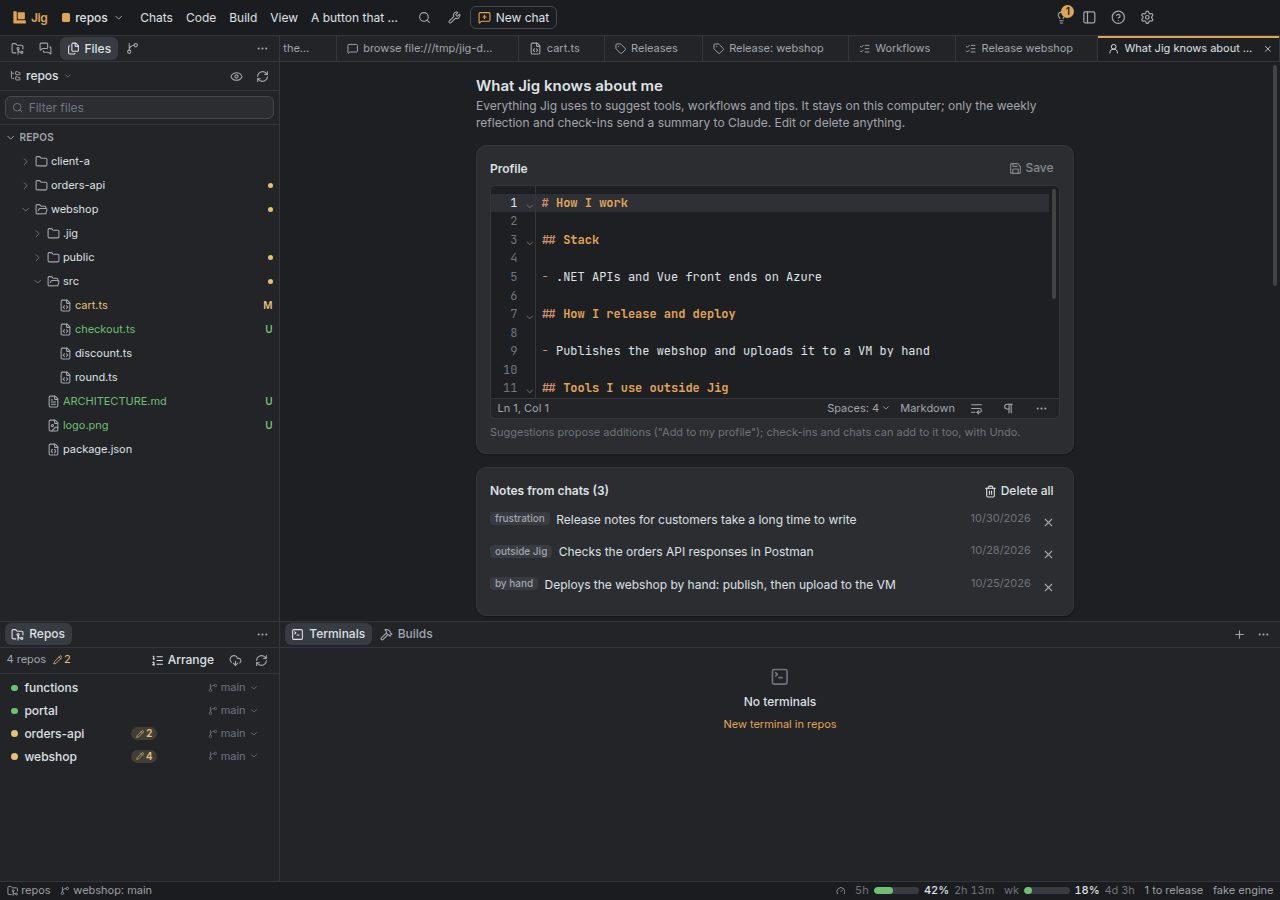
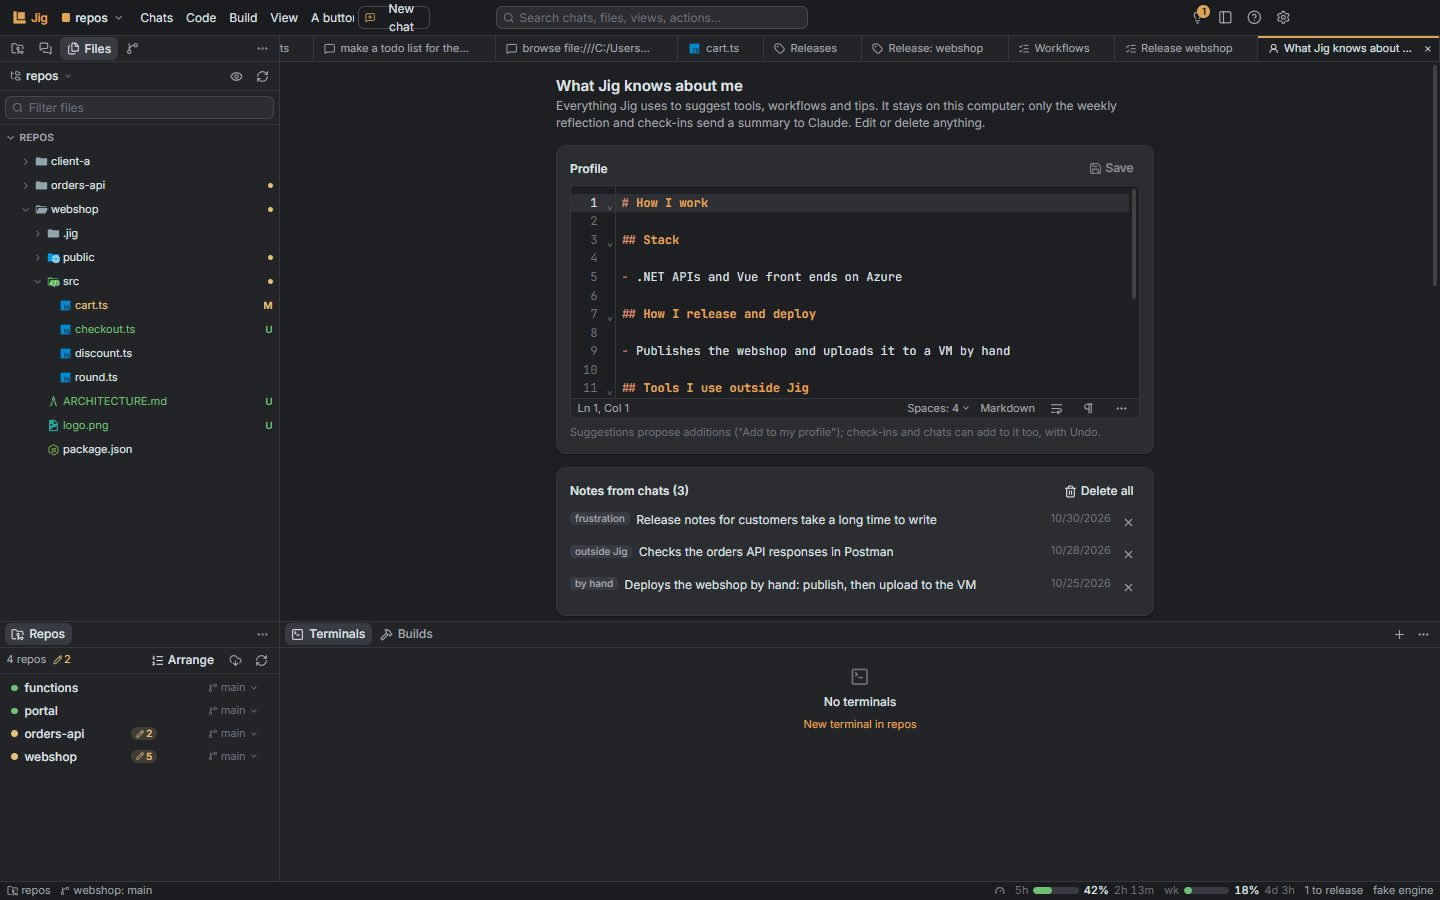
Docs: refresh screenshots for top-bar search and Chats cleanup

diff --git a/README.md b/README.md
@@ -18,7 +18,7 @@
 </p>
 
 <p align="center">
-  <img src="apps/desktop/src/renderer/features/about/shots/chat.jpg?v=14" alt="A chat with Claude Code next to the Git view of a workspace with four repositories" width="900">
+  <img src="apps/desktop/src/renderer/features/about/shots/chat.jpg?v=15" alt="A chat with Claude Code next to the Git view of a workspace with four repositories" width="900">
 </p>
 
 > In woodworking, a **jig** is a custom tool you make yourself so a repetitive job gets faster and
@@ -82,7 +82,7 @@ for pipelines and a few scripts you keep retyping. Jig puts it in one place:
 <table>
   <tr>
     <td colspan="2" valign="top">
-      <img src="apps/desktop/src/renderer/features/about/shots/chat-tools.jpg?v=14" alt="A chat with Claude's todo list, an edit with its diff and a plan to approve">
+      <img src="apps/desktop/src/renderer/features/about/shots/chat-tools.jpg?v=15" alt="A chat with Claude's todo list, an edit with its diff and a plan to approve">
       <b>Claude Code, in a window.</b> Everything its terminal shows, as cards:
       <ul>
         <li>Claude's todo list as a checklist, and plans you approve or send back with feedback.</li>
@@ -96,13 +96,13 @@ for pipelines and a few scripts you keep retyping. Jig puts it in one place:
   </tr>
   <tr>
     <td width="50%" valign="top">
-      <img src="apps/desktop/src/renderer/features/about/shots/dashboard.jpg?v=13" alt="Workspace dashboard">
+      <img src="apps/desktop/src/renderer/features/about/shots/dashboard.jpg?v=15" alt="Workspace dashboard">
       <b>A Home for every project.</b> Type what Claude should do and press Enter. Recent chats, next
       steps and every repo's scripts are right below. Add your whole repos folder once: Jig finds the
       repositories inside (three levels deep).
     </td>
     <td width="50%" valign="top">
-      <img src="apps/desktop/src/renderer/features/about/shots/git.jpg?v=13" alt="Git view and diff">
+      <img src="apps/desktop/src/renderer/features/about/shots/git.jpg?v=15" alt="Git view and diff">
       <b>Git for every repo.</b> The repo you work in (or any set of them) in one panel: stage, commit, push, pull,
       branches, history, side-by-side or inline diffs, image diffs. <b>Write</b> asks Claude for the
       commit message; any change or repo can be explained or reviewed by Claude in one click.
@@ -110,7 +110,7 @@ for pipelines and a few scripts you keep retyping. Jig puts it in one place:
   </tr>
   <tr>
     <td colspan="2" valign="top">
-      <img src="apps/desktop/src/renderer/features/about/shots/files.jpg?v=13" alt="The file tree, a file being edited and a Markdown preview beside it">
+      <img src="apps/desktop/src/renderer/features/about/shots/files.jpg?v=15" alt="The file tree, a file being edited and a Markdown preview beside it">
       <b>Files and editing.</b> The project's tree with git colours and a filter. Code and text open
       editable in your theme's colours; Ctrl+S saves, and if Claude changes the file meanwhile Jig asks
       before replacing your edits. Split the main area to keep a preview, a chat or a diff beside it.
@@ -118,14 +118,14 @@ for pipelines and a few scripts you keep retyping. Jig puts it in one place:
   </tr>
   <tr>
     <td valign="top">
-      <img src="apps/desktop/src/renderer/features/about/shots/releases.jpg?v=13" alt="A repository's release policy and a release drafted with Claude">
+      <img src="apps/desktop/src/renderer/features/about/shots/releases.jpg?v=15" alt="A repository's release policy and a release drafted with Claude">
       <b>Releases.</b> Each repository gets a release policy (<code>.jig/release.json</code>, shared
       with your team): planned releases, continuous deploys, or none. See what's unreleased, let Claude
       suggest the bump and write the changelog and customer notes, then release: version, changelog,
       commit, tag and push in one step. "What's live" shows each environment.
     </td>
     <td valign="top">
-      <img src="apps/desktop/src/renderer/features/about/shots/workflows.jpg?v=13" alt="A release workflow half-way">
+      <img src="apps/desktop/src/renderer/features/about/shots/workflows.jpg?v=15" alt="A release workflow half-way">
       <b>Workflows.</b> The things you repeat, as steps per project. Jig runs the commands, scripts,
       pipelines and messages to Claude it can, asks before others and leaves the rest to you. Schedule
       them, export them as a Claude Code skill, or move them to the cloud.
@@ -133,19 +133,19 @@ for pipelines and a few scripts you keep retyping. Jig puts it in one place:
   </tr>
   <tr>
     <td valign="top">
-      <img src="apps/desktop/src/renderer/features/about/shots/configure.jpg?v=13" alt="Claude changing Jig's theme from a chat">
+      <img src="apps/desktop/src/renderer/features/about/shots/configure.jpg?v=15" alt="Claude changing Jig's theme from a chat">
       <b>Claude configures Jig.</b> Ask in any chat to change the theme, fonts, layout or add-ons. Each
       change shows as a card with Undo. Billing settings are never touched from a chat.
     </td>
     <td valign="top">
-      <img src="apps/desktop/src/renderer/features/about/shots/build.jpg?v=13" alt="The builder with a new add-on ready to review">
+      <img src="apps/desktop/src/renderer/features/about/shots/build.jpg?v=15" alt="The builder with a new add-on ready to review">
       <b>The builder.</b> "A button that runs the tests of the active project" becomes an add-on.
       You see the files and a live preview, then Accept or Discard.
     </td>
   </tr>
   <tr>
     <td colspan="2" valign="top">
-      <img src="apps/desktop/src/renderer/features/about/shots/attempts.jpg?v=13" alt="Three attempts at the same task, with Claude's verdict">
+      <img src="apps/desktop/src/renderer/features/about/shots/attempts.jpg?v=15" alt="Three attempts at the same task, with Claude's verdict">
       <b>Try several ways.</b> One task, 2–4 Claude Code chats at once, each in its own git worktree and
       from a different angle (simplest, cleanest, most thorough…). Compare their changes, let Claude judge,
       and keep the winner: it lands in your working copy, the rest disappears.
@@ -153,13 +153,13 @@ for pipelines and a few scripts you keep retyping. Jig puts it in one place:
   </tr>
   <tr>
     <td valign="top">
-      <img src="apps/desktop/src/renderer/features/about/shots/tour.jpg?v=13" alt="A guided tour of changes">
+      <img src="apps/desktop/src/renderer/features/about/shots/tour.jpg?v=15" alt="A guided tour of changes">
       <b>Guided tours of changes.</b> Claude orders your uncommitted changes for understanding and explains
       each step next to its highlighted diff. Also: check before committing, and commit messages in your
       repo's style.
     </td>
     <td valign="top">
-      <img src="apps/desktop/src/renderer/features/about/shots/preview.jpg?v=13" alt="A Markdown preview with a Mermaid diagram">
+      <img src="apps/desktop/src/renderer/features/about/shots/preview.jpg?v=15" alt="A Markdown preview with a Mermaid diagram">
       <b>Previews for everything Claude writes.</b> Markdown with Mermaid diagrams, HTML, PDF, CSV and Excel
       tables, JSON, notebooks, media and code. Previews follow the file as it changes, with Ask Claude
       one click away.
@@ -167,7 +167,7 @@ for pipelines and a few scripts you keep retyping. Jig puts it in one place:
   </tr>
   <tr>
     <td colspan="2" valign="top">
-      <img src="apps/desktop/src/renderer/features/about/shots/browser.jpg?v=13" alt="Claude checking a shop page in its own browser, with the screenshot in the chat">
+      <img src="apps/desktop/src/renderer/features/about/shots/browser.jpg?v=15" alt="Claude checking a shop page in its own browser, with the screenshot in the chat">
       <b>Claude's browser.</b> Claude opens your dev server in a real browser inside Jig, reads the page,
       clicks and types like a person, takes screenshots (shown in the chat) and reads the console. You
       watch it live next to the chat, switch to tablet or phone size, and take over with your own mouse
@@ -178,32 +178,32 @@ for pipelines and a few scripts you keep retyping. Jig puts it in one place:
   </tr>
   <tr>
     <td valign="top">
-      <img src="apps/desktop/src/renderer/features/about/shots/suggestions.jpg?v=13" alt="A suggestion based on repeated actions">
+      <img src="apps/desktop/src/renderer/features/about/shots/suggestions.jpg?v=15" alt="A suggestion based on repeated actions">
       <b>Suggestions.</b> Jig notices what you repeat, what slows you down and what you mention to
       Claude (locally, on your machine) and suggests a tool, a workflow, a CLAUDE.md line, a routine or a
       tip, each with its evidence and one-click action. A week later it checks whether it helped.
     </td>
     <td valign="top">
-      <img src="apps/desktop/src/renderer/features/about/shots/usage.jpg?v=13" alt="Plan usage card">
+      <img src="apps/desktop/src/renderer/features/about/shots/usage.jpg?v=15" alt="Plan usage card">
       <b>Your plan limits, always visible.</b> The 5-hour and weekly windows of your Claude plan, in
       the status bar and on a ring in every chat. Hover for when each one resets.
     </td>
   </tr>
   <tr>
     <td valign="top">
-      <img src="apps/desktop/src/renderer/features/about/shots/context.jpg?v=13" alt="Context window breakdown with a Compact button">
+      <img src="apps/desktop/src/renderer/features/about/shots/context.jpg?v=15" alt="Context window breakdown with a Compact button">
       <b>Context window and Compact.</b> How full each chat's context is and what fills it, as Claude
       Code reports it. From 70% a <b>Compact</b> button appears; one click runs Claude Code's /compact.
     </td>
     <td valign="top">
-      <img src="apps/desktop/src/renderer/features/about/shots/settings.jpg?v=13" alt="Appearance settings">
+      <img src="apps/desktop/src/renderer/features/about/shots/settings.jpg?v=15" alt="Appearance settings">
       <b>Styled your way.</b> Jig Dark and Jig Light, any VS Code colour theme (from your VS Code or the
       marketplace) and VS Code file icon themes like Material Icon Theme.
     </td>
   </tr>
   <tr>
     <td colspan="2" valign="top">
-      <img src="apps/desktop/src/renderer/features/about/shots/knowledge.jpg?v=13" alt="What Jig knows about me">
+      <img src="apps/desktop/src/renderer/features/about/shots/knowledge.jpg?v=15" alt="What Jig knows about me">
       <b>What Jig knows about you, in plain sight.</b> Your profile (how you work), the notes Claude saved
       from your chats, your activity by kind, how you worked this week — lines by Claude vs by hand — and
       how Claude worked for you: the skills, subagents, add-ons and MCP servers it used across chats.
@@ -212,7 +212,7 @@ for pipelines and a few scripts you keep retyping. Jig puts it in one place:
   </tr>
   <tr>
     <td colspan="2" valign="top">
-      <img src="apps/desktop/src/renderer/features/about/shots/about.jpg?v=13" alt="The What Jig can do page">
+      <img src="apps/desktop/src/renderer/features/about/shots/about.jpg?v=15" alt="The What Jig can do page">
       <b>Everything in one page.</b> "What Jig can do" is the welcome screen (until your first project) and always one click away
       in the <b>Jig menu</b> (the logo, top left): every feature, the extension slots, your add-ons and
       skills, keyboard shortcuts, and examples you can try in one click.
@@ -266,7 +266,7 @@ Add-ons are folders in `~/.jig/addons` with an `addon.json`, React components an
 They can plug into 17 places:
 
 <p align="center">
-  <img src="apps/desktop/src/renderer/features/about/shots/slots.jpg?v=13" alt="The extension slots on the What Jig can do page" width="900">
+  <img src="apps/desktop/src/renderer/features/about/shots/slots.jpg?v=15" alt="The extension slots on the What Jig can do page" width="900">
 </p>
 
 | Slot | Where it shows | Slot | Where it shows |

diff --git a/docs/status.md b/docs/status.md
@@ -5,6 +5,8 @@ ten. Show more reveals ten more at a time. The header now has only New chat and 
 submenu in ⋯. Chats board and Open a Claude Code chat remain in the Chats top-bar menu and search.
 Validation: `npm run check` passes (595 tests, 8 skipped). Electron checks cover ordinary and >10-pin
 paging, View type, board/import access, shared search and stable anchored results at two window widths.
+The full screenshot suite passes, and the About/README screenshots now show the permanent search field
+and reduced Chats header. A production build bundles the refreshed assets.
 
 Search bar (2026-10-31): search is always visible in the center of the top bar. Results drop from
 directly beneath it; Ctrl+P/Ctrl+K focus it. Escape/outside clicks close results without moving content.
